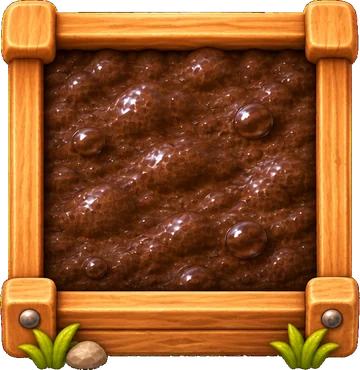
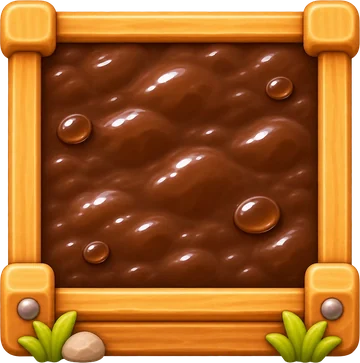
Nouveaux bacs (terre sèche et arrosée), icône d'inventaire sans cadre (0.19.4)
Claude-Session: https://claude.ai/code/session_018D5HKJWKwN88xpAGuhHMQJ

diff --git a/css/style.css b/css/style.css
@@ -134,7 +134,7 @@ main { display: grid; gap: 12px; padding-top: 4px; }
 .plots { display: grid; grid-template-columns: repeat(3, minmax(0,1fr)); gap: var(--g); }
 @media (min-width: 620px) { .plots { grid-template-columns: repeat(4, minmax(0,1fr)); } }
 /* Le bac occupe le bas de la case ; la plante dépasse au-dessus. */
-.plot { position: relative; aspect-ratio: 360 / 372; max-width: 100%; padding: 0; border: 0; background: url("../assets/img/plot-wet.webp") center / 100% 100% no-repeat; overflow: visible; }
+.plot { position: relative; aspect-ratio: 360 / 363; max-width: 100%; padding: 0; border: 0; background: url("../assets/img/plot-wet.webp") center / 100% 100% no-repeat; overflow: visible; }
 .plot.dry, .plot.empty { background-image: url("../assets/img/plot-dry.webp"); }
 .plot:active { transform: scale(.97); }
 .plot svg.art { position: absolute; left: 13%; width: 74%; height: 72%; bottom: 22%; top: auto; }
@@ -522,3 +522,4 @@ main[data-tab="garden"] .cat-title { font-size: .9rem; margin-top: 0; }
 .h-ico { display: flex; align-items: center; gap: 8px; }
 .bag-ico { width: 30px; height: 30px; border-radius: 9px; border: 1px solid var(--line); background: var(--panel); color: var(--leaf-deep); display: grid; place-items: center; flex: none; }
 .bag-ico svg { width: 18px; height: 18px; }
+.bag-ico { border: 0; background: none; width: 24px; height: 24px; } .bag-ico svg { width: 22px; height: 22px; }

diff --git a/index.html b/index.html
@@ -6,13 +6,13 @@
   <title>Potager idle</title>
   <meta name="description" content="Un petit jeu idle de potager : plante, arrose, récolte, cuisine et découvre des variétés hybrides.">
   <meta name="theme-color" content="#f2f9e6" id="theme-color">
-  <link rel="manifest" href="manifest.webmanifest?v=95">
+  <link rel="manifest" href="manifest.webmanifest?v=96">
   <link rel="icon" href="icons/favicon-32.png" sizes="32x32" type="image/png">
   <link rel="icon" href="icons/favicon-64.png" sizes="64x64" type="image/png">
   <link rel="icon" href="icons/icon-192.png" sizes="192x192" type="image/png">
   <link rel="preload" href="fonts/nunito-latin.woff2" as="font" type="font/woff2" crossorigin>
   <link rel="preload" href="fonts/fredoka-latin.woff2" as="font" type="font/woff2" crossorigin>
-  <link rel="stylesheet" href="css/style.css?v=95">
+  <link rel="stylesheet" href="css/style.css?v=96">
 </head>
 <body>
 <div id="app">
@@ -41,9 +41,9 @@
 <div id="fx"></div>
 <div id="toasts" aria-live="polite"></div>
 
-<script src="js/data.js?v=95"></script>
-<script src="assets/img/manifest.js?v=95"></script>
-<script src="js/art.js?v=95"></script>
-<script src="js/game.js?v=95"></script>
+<script src="js/data.js?v=96"></script>
+<script src="assets/img/manifest.js?v=96"></script>
+<script src="js/art.js?v=96"></script>
+<script src="js/game.js?v=96"></script>
 </body>
 </html>

diff --git a/js/game.js b/js/game.js
@@ -1,7 +1,7 @@
 "use strict";
 /* Numéro de version affiché dans les Paramètres.
    À chaque mise à jour : changer APP_VERSION, le ?v= dans index.html et VERSION dans sw.js. */
-const APP_VERSION = "0.19.3";
+const APP_VERSION = "0.19.4";
 /* ---------------- Helpers ---------------- */
 const $ = s => document.querySelector(s);
 const now = () => Date.now();

diff --git a/sw.js b/sw.js
@@ -1,6 +1,6 @@
 /* Service worker de Potager idle : rend le jeu jouable hors-ligne.
    À chaque mise à jour du jeu, augmente VERSION pour que les téléphones téléchargent la nouvelle version. */
-const VERSION = "potager-v95";
+const VERSION = "potager-v96";
 const FILES = [
   "./",
   "index.html",
